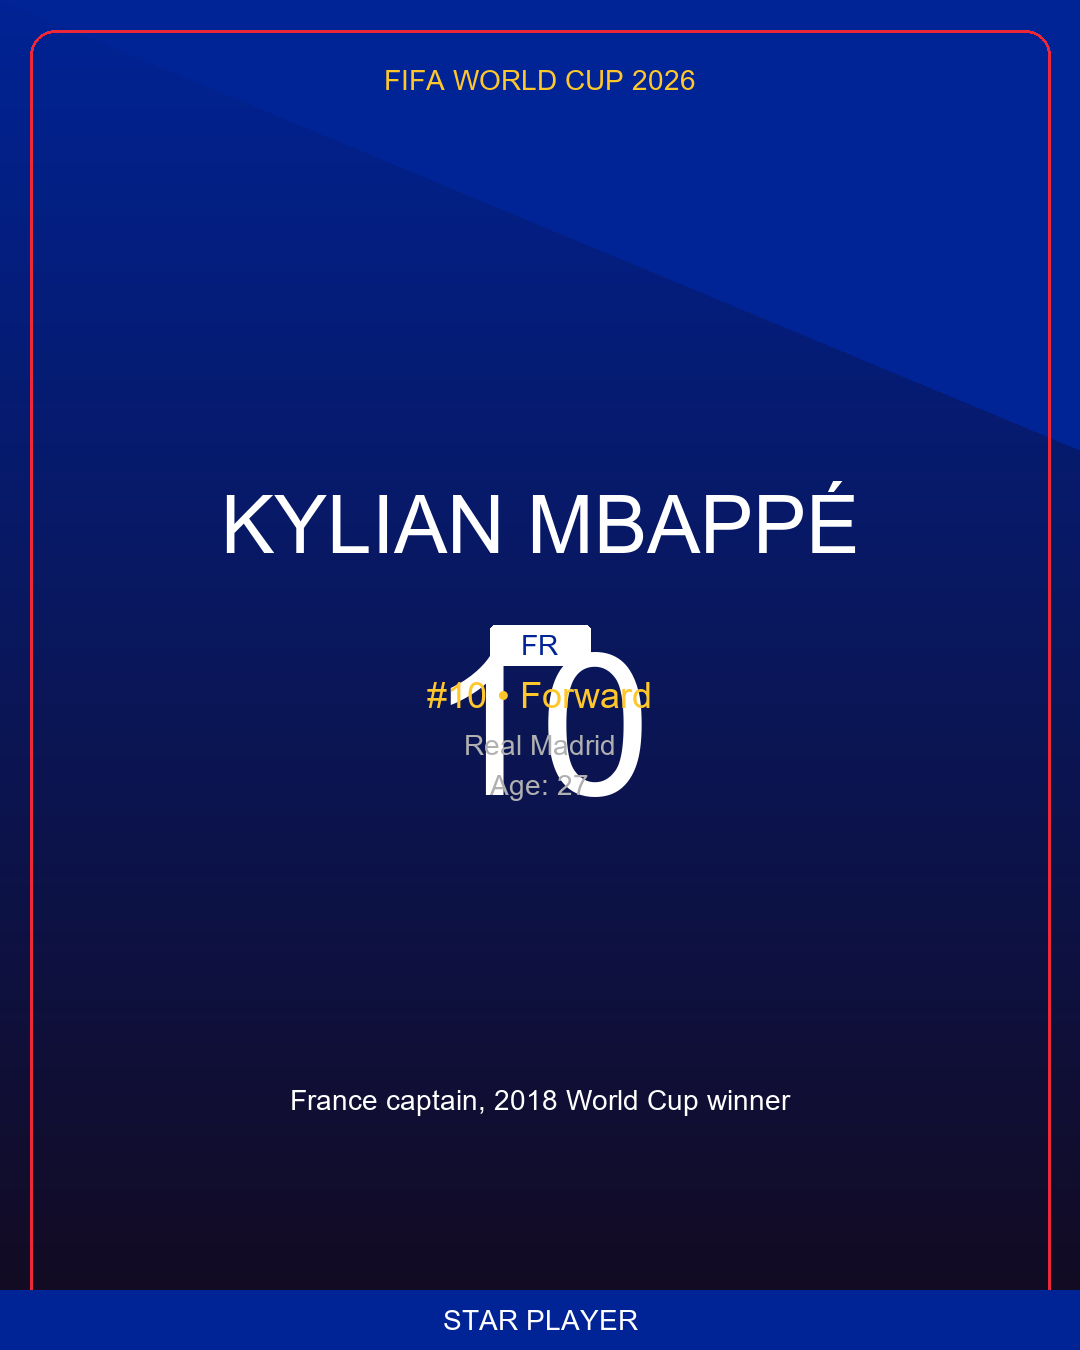
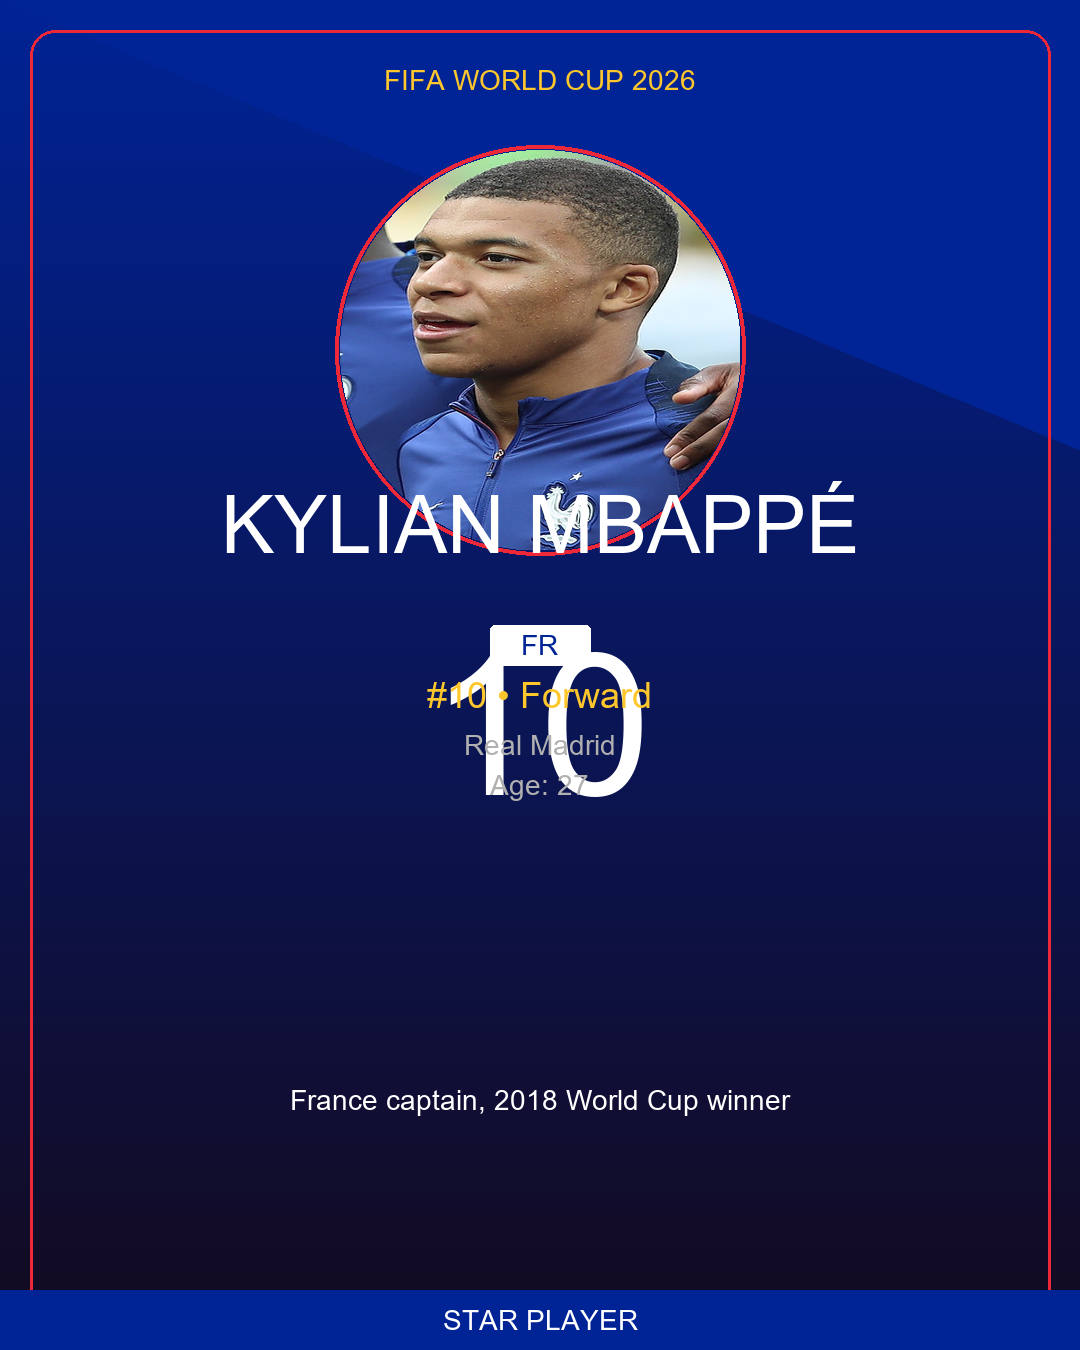
Update player posters with real images
- Downloaded Kylian Mbappé image from Wikimedia Commons
- Downloaded Lamine Yamal image from Wikimedia Commons
- Updated graphic designer to include player photos in posters
- Regenerated Mbappé and Yamal posters with real images (295KB and 275KB)
- Added image loading and circular mask functionality

Changed region(s): [[0.3056, 0.0933, 0.7028, 0.4356]]

diff --git a/agent/graphic_designer/graphic_designer.py b/agent/graphic_designer/graphic_designer.py
@@ -709,6 +709,58 @@ class GraphicDesignerAgent:
             [30, 30, width - 30, height - 30], radius=25, outline=secondary_rgb, width=3
         )
 
+        # Try to load and draw player image
+        player_name = player_data.get("name", "Player")
+        image_path = player_data.get("image_path")
+
+        if not image_path:
+            # Try to find image in assets/players directory
+            possible_names = [
+                f"{player_name.lower().replace(' ', '_').replace('.', '')}.jpg",
+                f"{player_name.lower().replace(' ', '_').replace('.', '')}.png",
+                f"{player_name.split()[0].lower()}_{player_name.split()[-1].lower()}.jpg"
+                if len(player_name.split()) > 1
+                else None,
+            ]
+            assets_dir = Path(__file__).parent.parent.parent / "assets" / "players"
+            for name in possible_names:
+                if name:
+                    test_path = assets_dir / name
+                    if test_path.exists():
+                        image_path = str(test_path)
+                        break
+
+        if image_path and Path(image_path).exists():
+            try:
+                player_img = Image.open(image_path)
+                # Resize and crop to fit circular area
+                img_size = 400
+                player_img = player_img.resize(
+                    (img_size, img_size), Image.Resampling.LANCZOS
+                )
+
+                # Create circular mask
+                mask = Image.new("L", (img_size, img_size), 0)
+                mask_draw = ImageDraw.Draw(mask)
+                mask_draw.ellipse([0, 0, img_size, img_size], fill=255)
+
+                # Apply mask
+                player_img.putalpha(mask)
+
+                # Paste player image
+                img_x = width // 2 - img_size // 2
+                img_y = 150
+                img.paste(player_img, (img_x, img_y), player_img)
+
+                # Draw border around image
+                draw.ellipse(
+                    [img_x - 5, img_y - 5, img_x + img_size + 5, img_y + img_size + 5],
+                    outline=secondary_rgb,
+                    width=4,
+                )
+            except Exception as e:
+                print(f"[Player Poster] Could not load image: {e}")
+
         # Load fonts
         try:
             font_xl = ImageFont.truetype("arial.ttf", 80)
@@ -1049,6 +1101,12 @@ def main():
                     "club": "Real Madrid",
                     "age": "27",
                     "caption": "France captain, 2018 World Cup winner",
+                    "image_path": str(
+                        Path(__file__).parent.parent.parent
+                        / "assets"
+                        / "players"
+                        / "kylian_mbappe.jpg"
+                    ),
                 },
                 {
                     "name": "Lamine Yamal",
@@ -1059,6 +1117,12 @@ def main():
                     "club": "Barcelona",
                     "age": "18",
                     "caption": "Euro 2024 winner, youngest goalscorer in Euros history",
+                    "image_path": str(
+                        Path(__file__).parent.parent.parent
+                        / "assets"
+                        / "players"
+                        / "lamine_yamal.jpg"
+                    ),
                 },
                 {
                     "name": "Lionel Messi",
